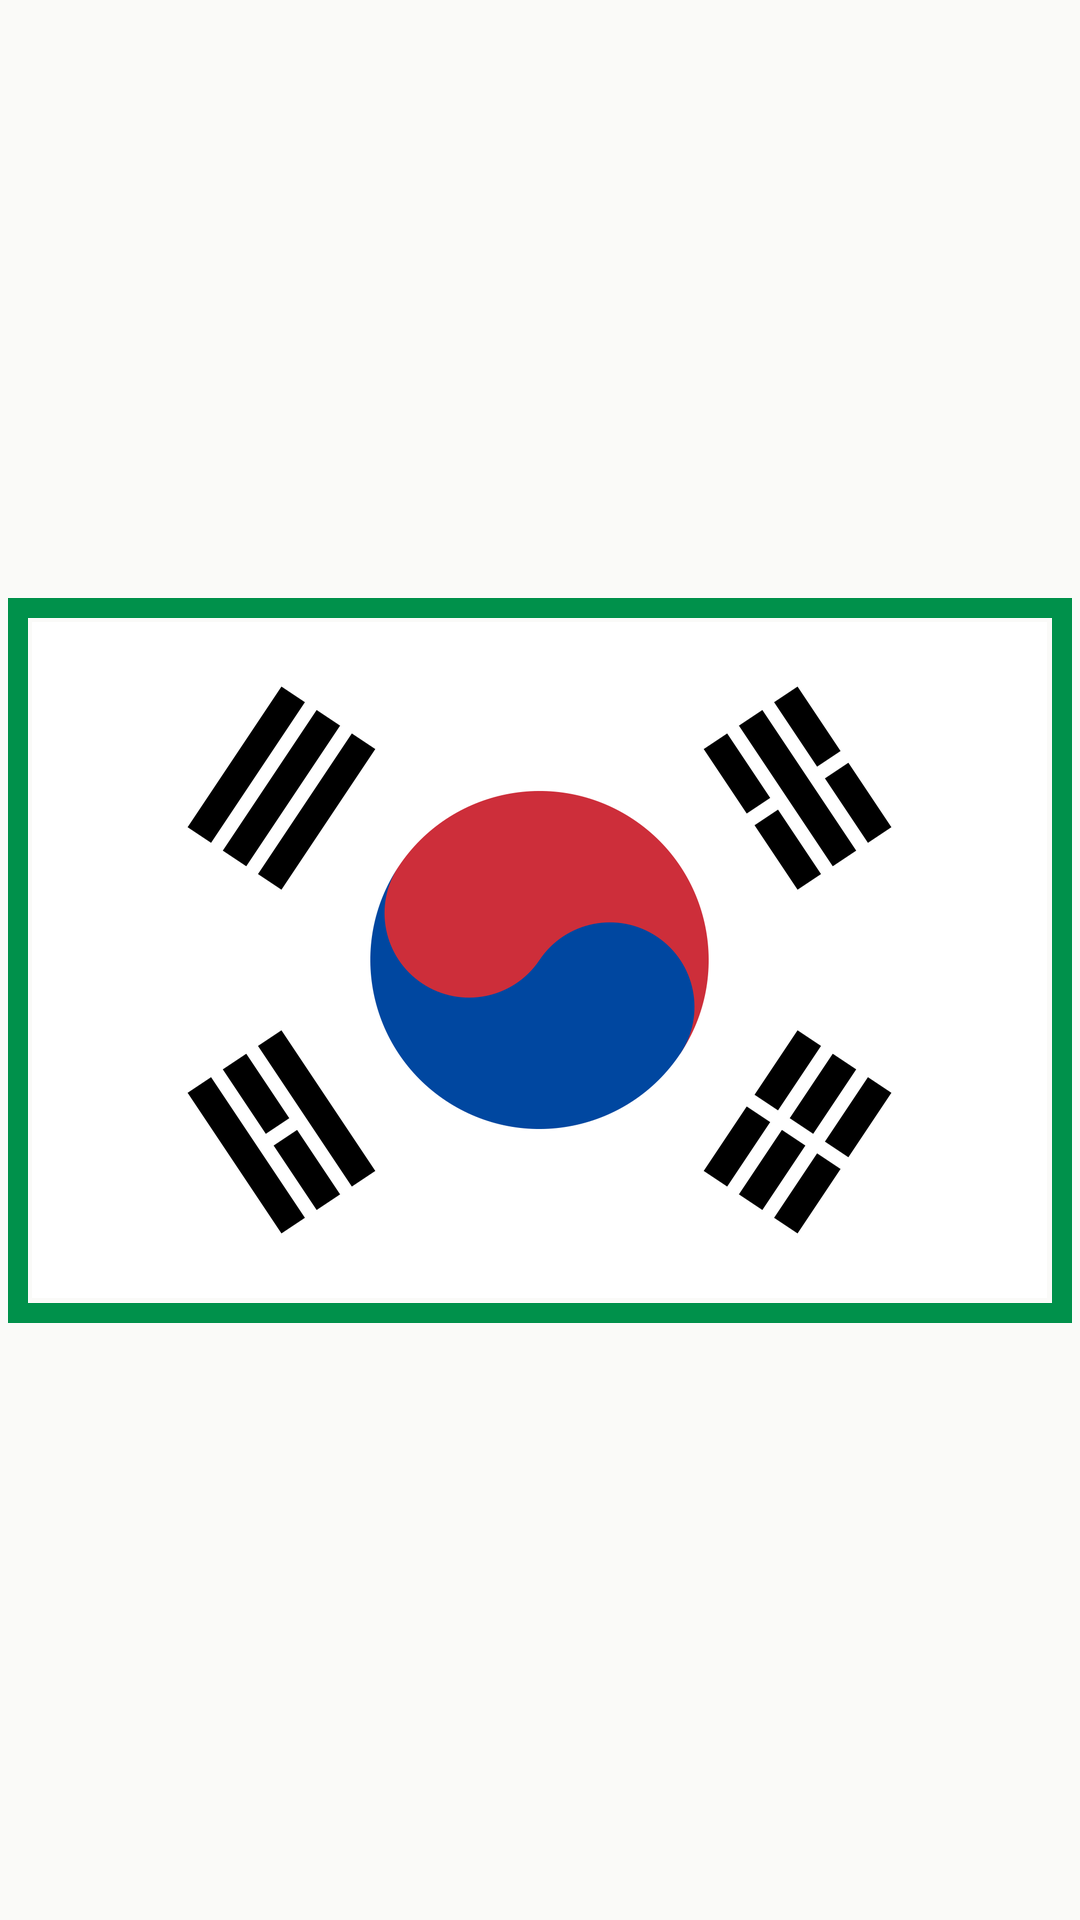
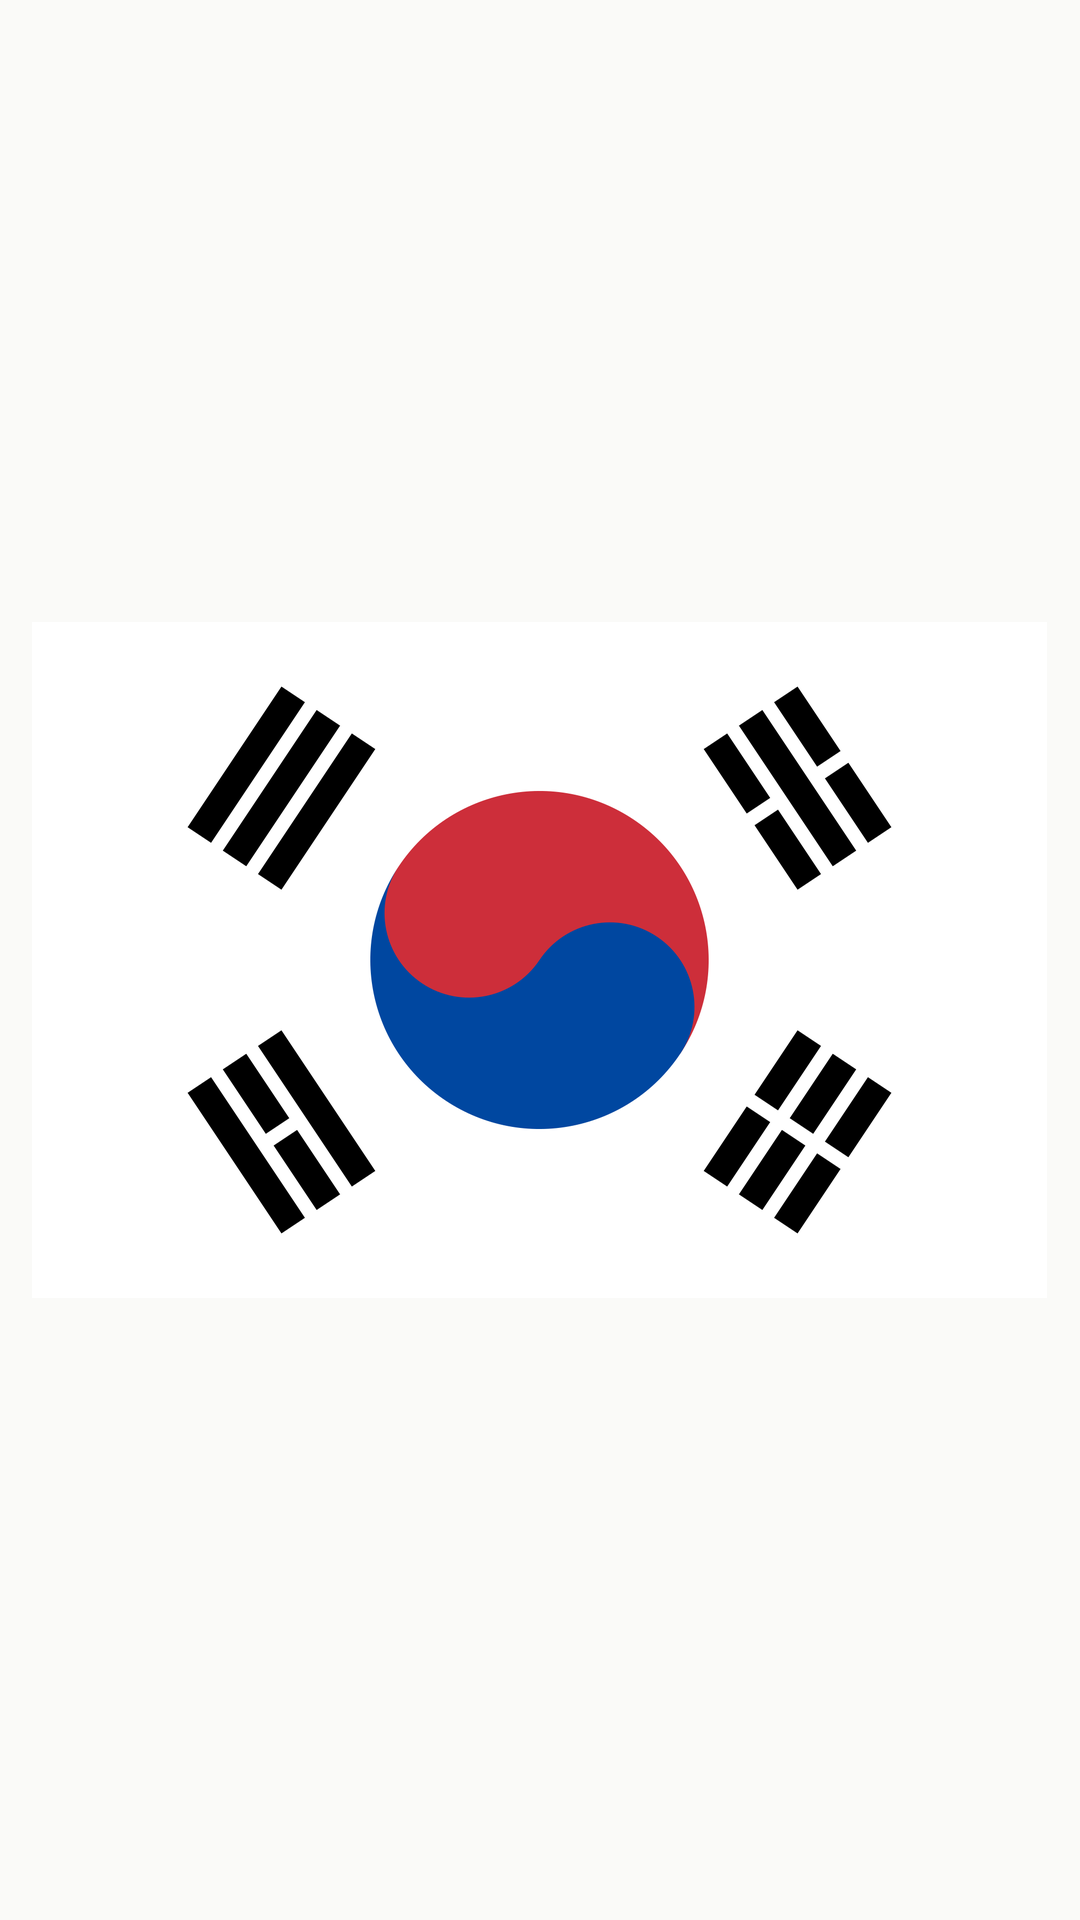
태극기편 마감 조정: 정답 씬 표시 제거 + CTA를 펄럭이는 실사 영상(10714335)으로

Changed region(s): [[0.0, 0.3125, 1.0, 0.6875]]

diff --git a/content/CALENDAR.md b/content/CALENDAR.md
@@ -89,8 +89,8 @@
     · fact2 `file:assets/bg_flag/bg_f2.png` (2번 오답 — 건↔곤 교체)
     · fact3 `file:assets/bg_flag/bg_f3.png` (정답 태극 위 / 물결반전 태극 아래 — 세로 비교)
     · twist `file:assets/bg_flag/bg_twist.png` (정답 전체)
-    · cta `file:assets/bg_flag/bg_cta.png`
-    · **정답 공개(twist) = `file:assets/bg_flag/bg_twist.png` (정답 태극기 한 장 크게)** — 디렉터 확정 09:10 "그냥 크게 한장". 그리드형 `bg_answer.png`는 예비용, 쓰지 마라.
+    · **cta = 펄럭이는 실사 태극기 영상 `10714335`** (디렉터 09:12 "6번은 태극기가 펄럭이는 다른 영상으로"). bg에 `10714335`를 그대로 넣어라 — 8/12 검증 완료 자산(정면 정방향 전 구간), 타 편 미사용이라 재사용 게이트 통과, 캐시 보유. 정지 이미지 `bg_cta.png`는 폐기.
+    · **정답 공개(twist) = `file:assets/bg_flag/bg_twist.png` (정답 태극기 한 장 크게, **표시 없음** — 디렉터 09:14 "정답에 초록 네모 없애줘")**. 그리드형 `bg_answer.png`는 예비용, 쓰지 마라.
     원본 4종은 `q1_taegeuk_flip / q2_gwae_swap / q3_correct / q4_wave_mirror.png`. 전부 위키미디어 공식 국기(PD)를 이미지 변환만으로 생성.
   - **❗ 오답 태극기에는 반드시 X 표시 (2026-08-15 디렉터 지시 — 안전 규칙, 위반 시 기각)**: "소리 없이 대충 본 사람에게 오답이 태극기로 잘못 각인될 수 있다." 오답이 등장하는 모든 씬(fact1·fact2·fact3 하단·정답공개 그리드)에는 **깃면 전체를 가로지르는 붉은 X**가 이미 얹혀 있다. 정답은 가리지 않는 **초록 테두리**로 표시한다. **훅(문제 제시)만 표시 없음** — 퀴즈 성립 때문. 배경을 새로 만들거나 교체할 경우에도 이 규칙을 그대로 지켜라.
   - **📐 fact2에 획수 규칙 필수 (디렉터 지시 08:45 "획수 3-4-5-6도 넣어줘")**: 괘 위치 설명에 이어 **"왼쪽 위부터 획을 세면 3, 4, 5, 6"** — 건 ☰ 3획(좌상) → 리 ☲ 4획(좌하) → 감 ☵ 5획(우상) → 곤 ☷ 6획(우하). 자막에도 `3 · 4 · 5 · 6`이 보이게 하라. 획수는 제작 세션이 직접 세어 재확인할 것.
